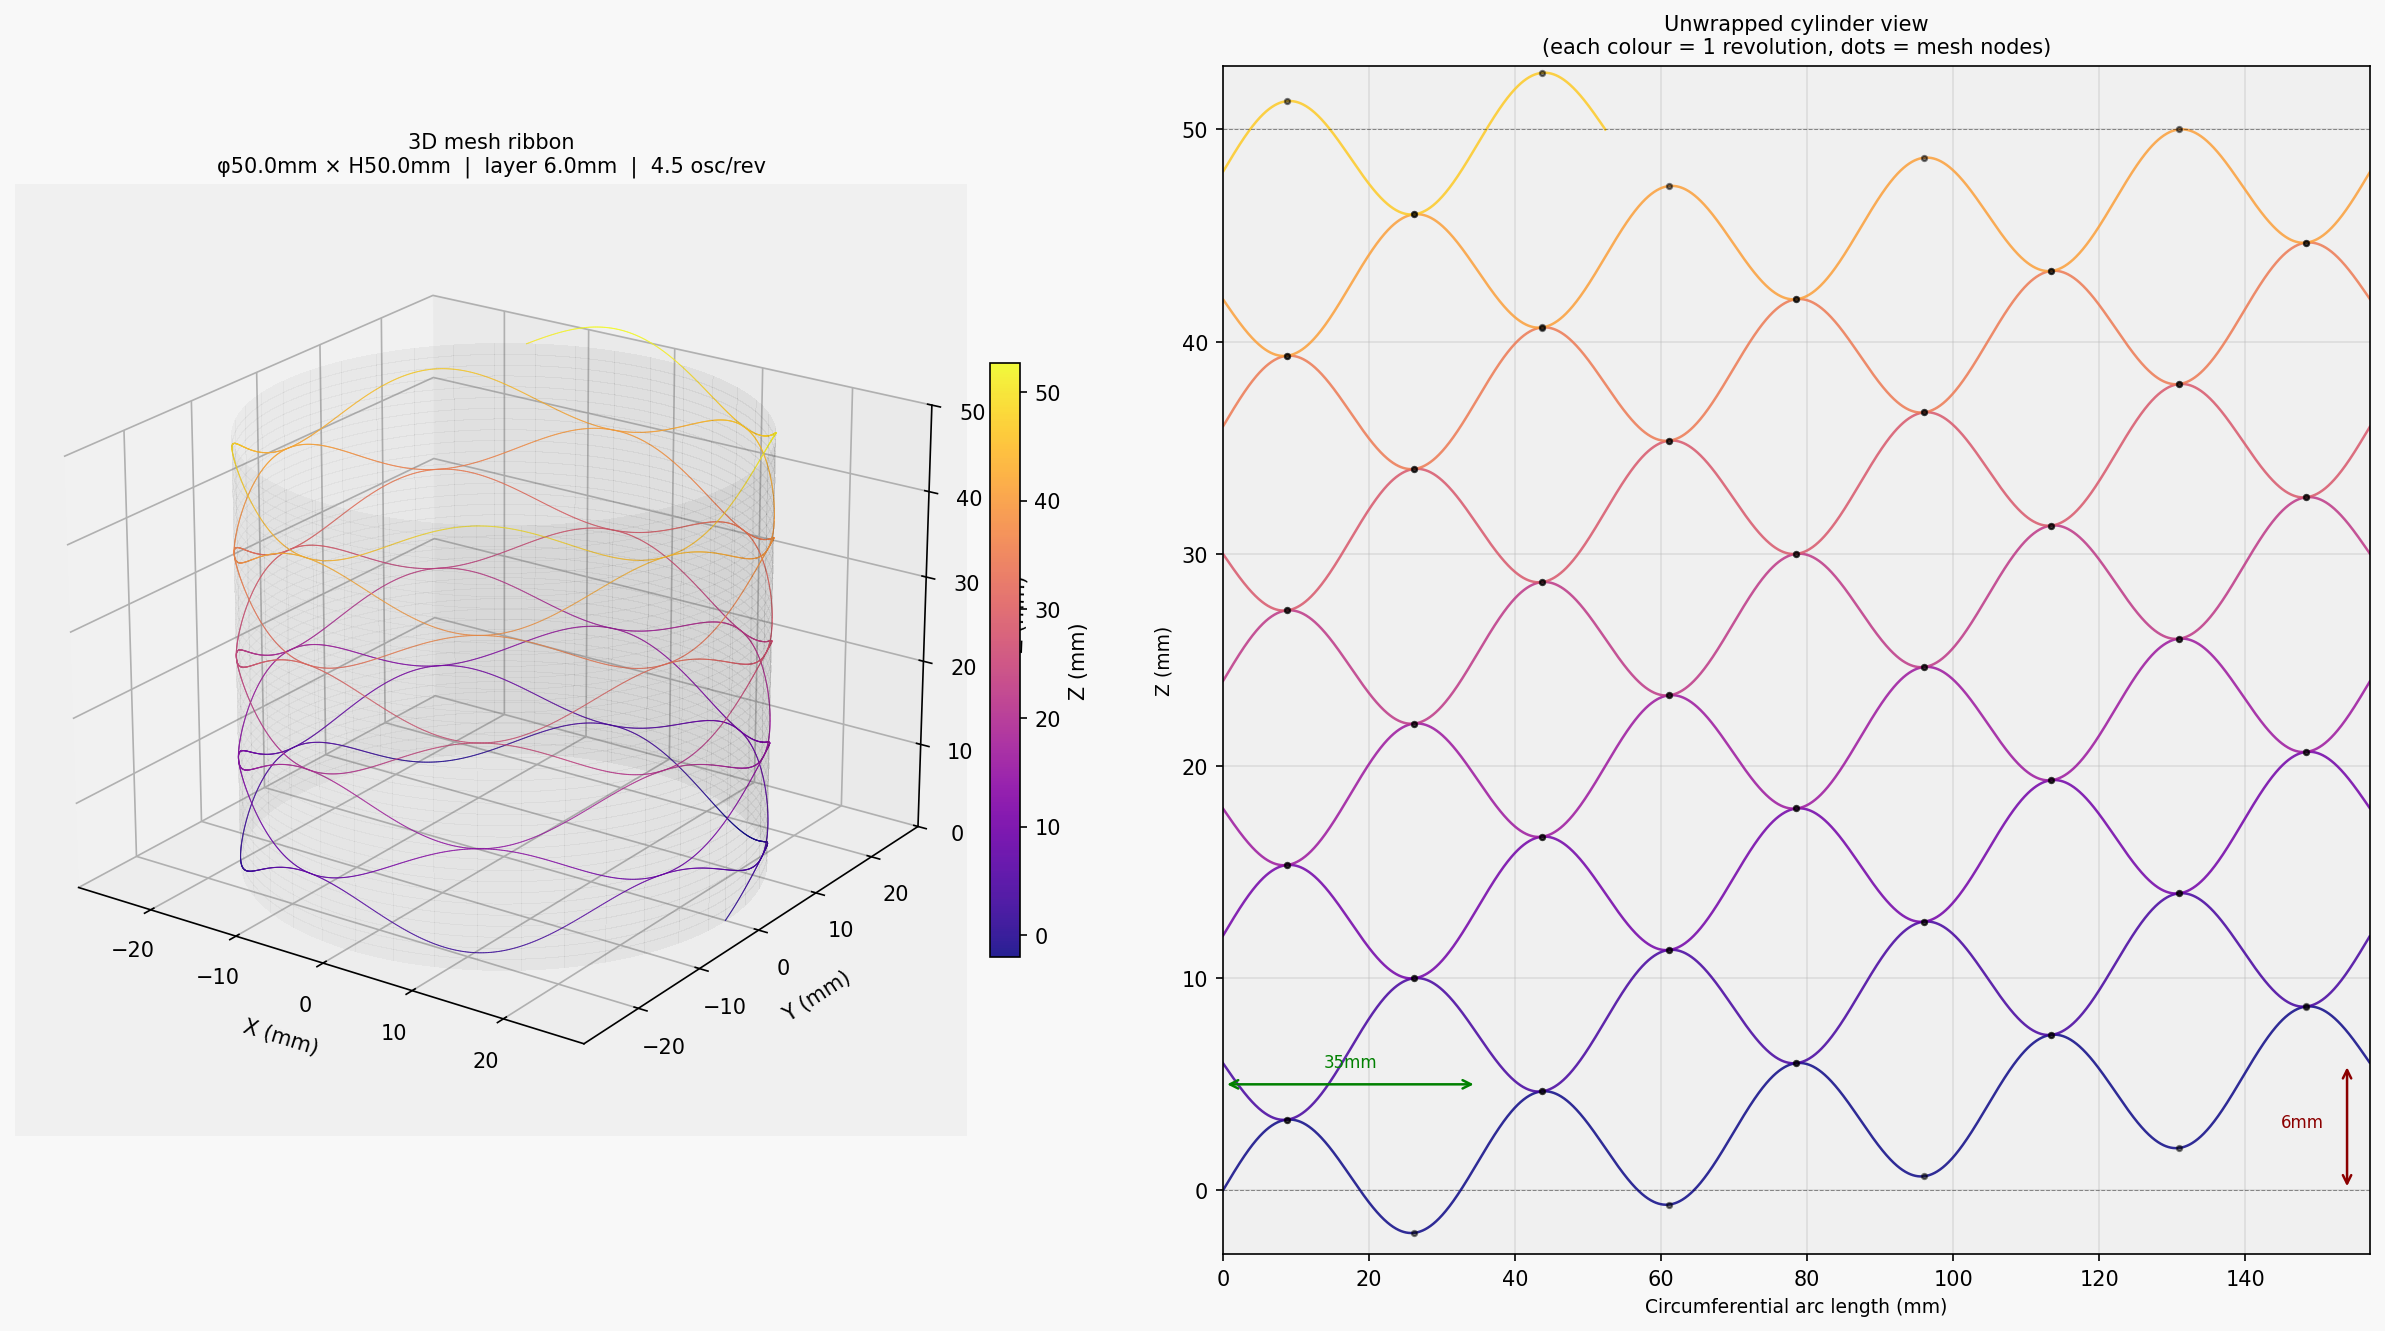
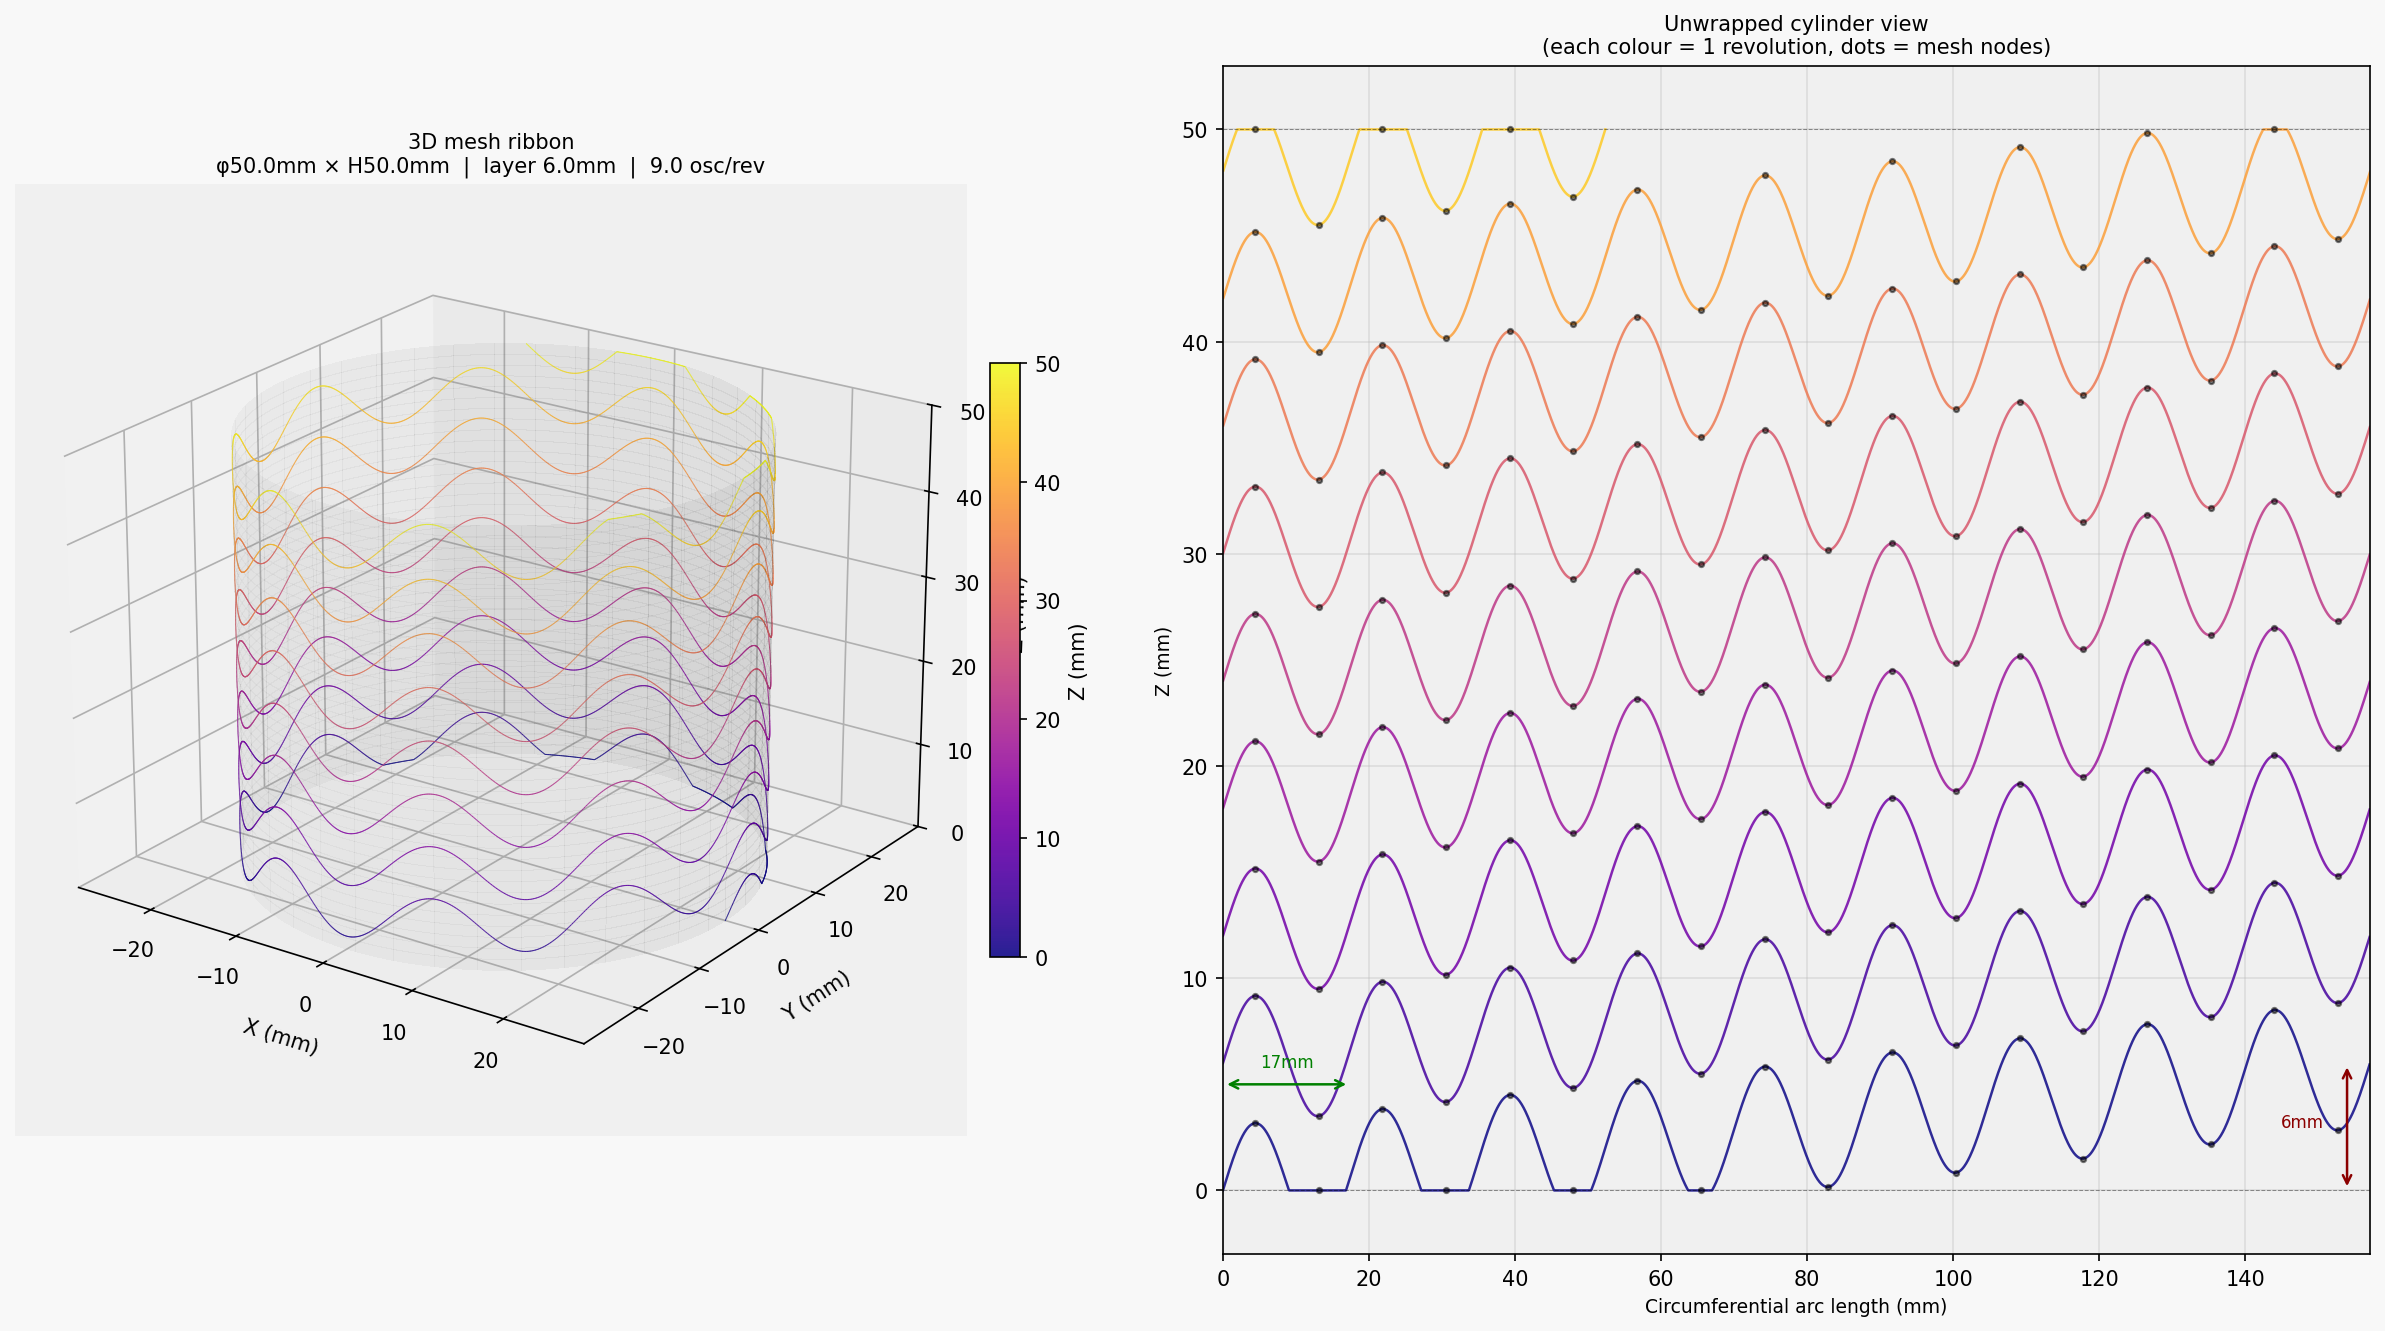
Double oscillation frequency to 9/rev and clamp Z to [0, 50mm]

diff --git a/visualize_mesh2.py b/visualize_mesh2.py
@@ -7,7 +7,7 @@ NOZZLE_DIA    = 1.8    # mm
 CIRCLE_DIA    = 50.0   # mm
 TOTAL_HEIGHT  = 50.0   # mm
 LAYER_HEIGHT  = 6.0    # mm  (Z advance per revolution)
-N_OSC_PER_REV = 4.5   # oscillations per revolution (half-integer → diamond mesh)
+N_OSC_PER_REV = 9.0   # oscillations per revolution (half-integer → diamond mesh)
 # --------------------
 
 R      = CIRCLE_DIA / 2
@@ -21,7 +21,7 @@ x = R * np.cos(t)
 y = R * np.sin(t)
 z_base = t / (2 * np.pi * n_revs) * TOTAL_HEIGHT
 z_osc  = Z_AMP * np.sin(N_OSC_PER_REV * t)
-z      = z_base + z_osc
+z      = np.clip(z_base + z_osc, 0, TOTAL_HEIGHT)
 
 # ---- Figure ----
 fig = plt.figure(figsize=(16, 9))
